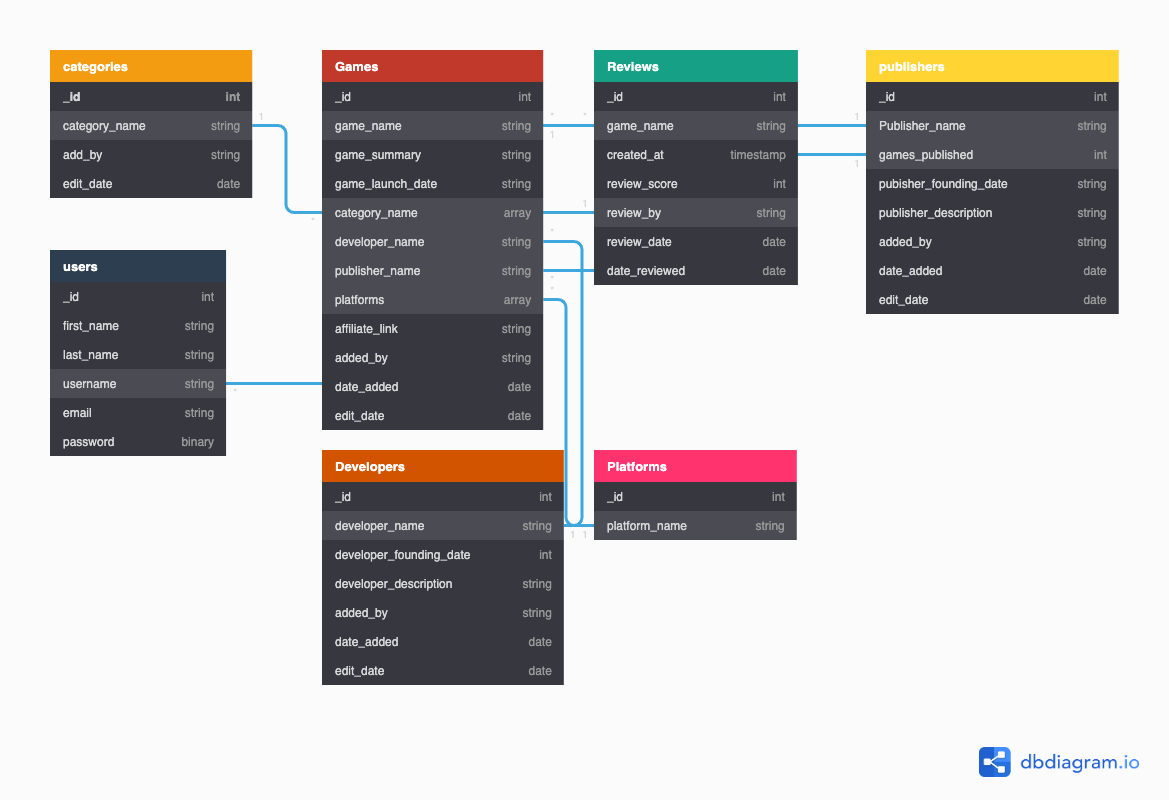
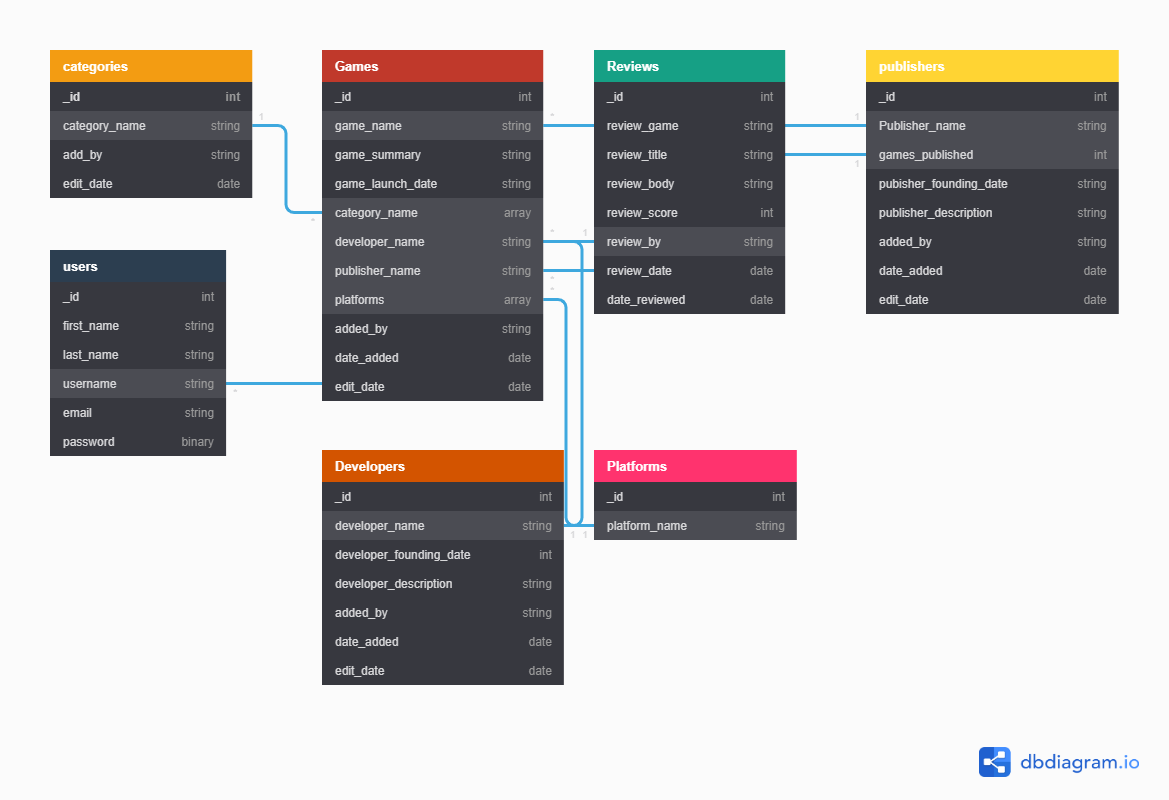
added more to the readme and replaced databnase image

diff --git a/README.md b/README.md
@@ -7,21 +7,21 @@ I wanted to build this project as a place for people to read real opinions from 
  
 ## UX
  
-My design philosophy for this project was to keep everything simple for the user side of the site. I wanted people to visit the site and discover new games, I didn't want to force anyone to make an account in order to view thing like games, developers or publishers. A user would need to create an account to review a game. I would hope seeing other users reviews would inspire other users to submit reviews too, once a user discovers a game on the site and decides that they will purchase it would be ideal if they to would return to the site to leave a review on said game. I  have added a featured games section to the home page, this way if people are only having a glance at the site hopefully they will click on one of the featured games and check some of the reviews out.
-
-This project is hosted on heroku [GameScore.GG](http://game-score-gg.herokuapp.com/home)
+My design philosophy for this project was to keep everything simple for the user side of the site. I wanted people to visit the site and discover new games, I didn't want to force anyone to make an account in order to view things like games, developers, or publishers. A user would need to create an account to review a game. I would hope seeing other users' reviews would inspire other users to submit reviews too, once a user discovers a game on the site and decides that they will purchase it would be ideal if they to would return to the site to leave a review on said game. I  have added a featured games section to the home page, this way if people are only having a glance at the site hopefully they will click on one of the featured games and check some of the reviews out.
 
 
-- As someone who wants to 
+When the user wants to add an item they need to press the 'add' button on the navbar and select the item they want to add (game, review ...) then fill out the form, in order to access the form the user must be logged in, if not they will be redirected to the login page.
+
+The form the user will have to fill out will change depending on what they decide to add, once the form is submitted the user will be redirected to the appropriate page and flashed a message to let them know the form was submitted and added to the DB successfully.
+
+- As a game enthusiast, I want to write reviews of my favorite games to inspire others to experience and enjoy the games I enjoy.
+
+- As a gamer I want to find a new game to play, I like to read reviews from other players and make my decision to purchase a game based on the reviews of others.
+
 
 [Wireframes / Mockups!]()
 
 ## Features
-
-- 
-- 
-
-
 
 ### Existing Features
 - 
@@ -29,7 +29,9 @@ This project is hosted on heroku [GameScore.GG](http://game-score-gg.herokuapp.c
 
 ### Features Left to Implement
 
-- 
+- pagination to games page as having to many games on one page could casue issues down the line.
+
+- A user page that will display all the items that user added, this will maek it easier for a user to update/ delete added content.
 
 ## Technologies Used
 
@@ -58,10 +60,16 @@ This project is hosted on heroku [GameScore.GG](http://game-score-gg.herokuapp.c
 - [jinja](https://jinja.palletsprojects.com/en/2.11.x/)
     - The project uses jinja for the templating language.
     
+- [GSAP](https://greensock.com/gsap/)
+    - The project uses Gsap to handle animations.
 
 
 ## Testing
 [Testing](https://github.com/danielclements/game_score.gg/blob/master/readme/testing.md)
+
+## Database Schema
+
+[Database schema](https://github.com/danielclements/game_score.gg/blob/master/readme/Game_Score.png)
 
 ### Browsers used for testing:
 
@@ -78,19 +86,17 @@ This project is hosted on heroku [GameScore.GG](http://game-score-gg.herokuapp.c
 - Iphone 11
 - Google Chrome dev tools using multiple view ports
 
-### Feature testing:
-
-1. Portfolio Gallery:
-    1. 
-
-
-    
-
 ### Bugs:
+
+- Feautred game slider on the home page, expands depending on the image selected
+
+- When a user tries to access a feature that requires login they will be rerouted to the login page, when logged in they will then be returned to the home page instead of the page they originally tried to access.
 
 ## Deployment
 
-This site is hosted on Heroku The page is being hosted directly from the master branch, that way any updates that are committed will be automatically deployed to heroku.  
+This project is hosted on heroku [GameScore.GG](http://game-score-gg.herokuapp.com/home)
+
+The page is being hosted directly from the master branch, that way any updates that are committed will be automatically deployed to heroku.  
 
 
 ### Running Code locally:
@@ -118,33 +124,20 @@ This site is hosted on Heroku The page is being hosted directly from the master 
 ### Media
 
 - Main Background for the section was provided by [Pexels](https://www.pexels.com/)
--
+
 
 ### Acknowledgements
 
 - I used code by [Chris Coyier](https://css-tricks.com/perfect-full-page-background-image/) to add full view height background images.
 
+- Password requirements by [W3Schools](https://www.w3schools.com/howto/howto_js_password_validation.asp)
 
+- Multiple select from [Stakc Overflow](https://stackoverflow.com/questions/50895806/bootstrap-4-multiselect-dropdown)
 
-- https://www.w3schools.com/howto/howto_js_password_validation.asp
+- Authentication and login provided by[Pretty Printed on Youtube](https://www.youtube.com/watch?v=vVx1737auSE)
+
+- Message flashing tutorial by [Tech With Tim](https://www.youtube.com/watch?v=qbnqNWXf_tU)
+
+- review score slider by [W3Schhols](https://www.w3schools.com/howto/howto_js_rangeslider.asp )
 
 Live version of the site : http://game-score-gg.herokuapp.com/home
-
-
-
-
-
-https://stackoverflow.com/questions/31499804/insert-data-into-with-pymongo-and-flask?fbclid=IwAR016xRCAl9lBS-EAmkbEE3pjJq2k0KxA86ZiGY3SPcEb6uVVGeTzYJ9h4w used to insert arrays from the game_add forum
-
-
-https://stackoverflow.com/questions/50895806/bootstrap-4-multiselect-dropdown multiple select 
-
-
-https://www.youtube.com/watch?v=vVx1737auSE login session tutorial 
-
-https://www.youtube.com/watch?v=qbnqNWXf_tU message flashing 
-
-https://css-tricks.com/perfect-full-page-background-image/ prefect background images
-
-
-https://www.w3schools.com/howto/howto_js_rangeslider.asp slider values on page
